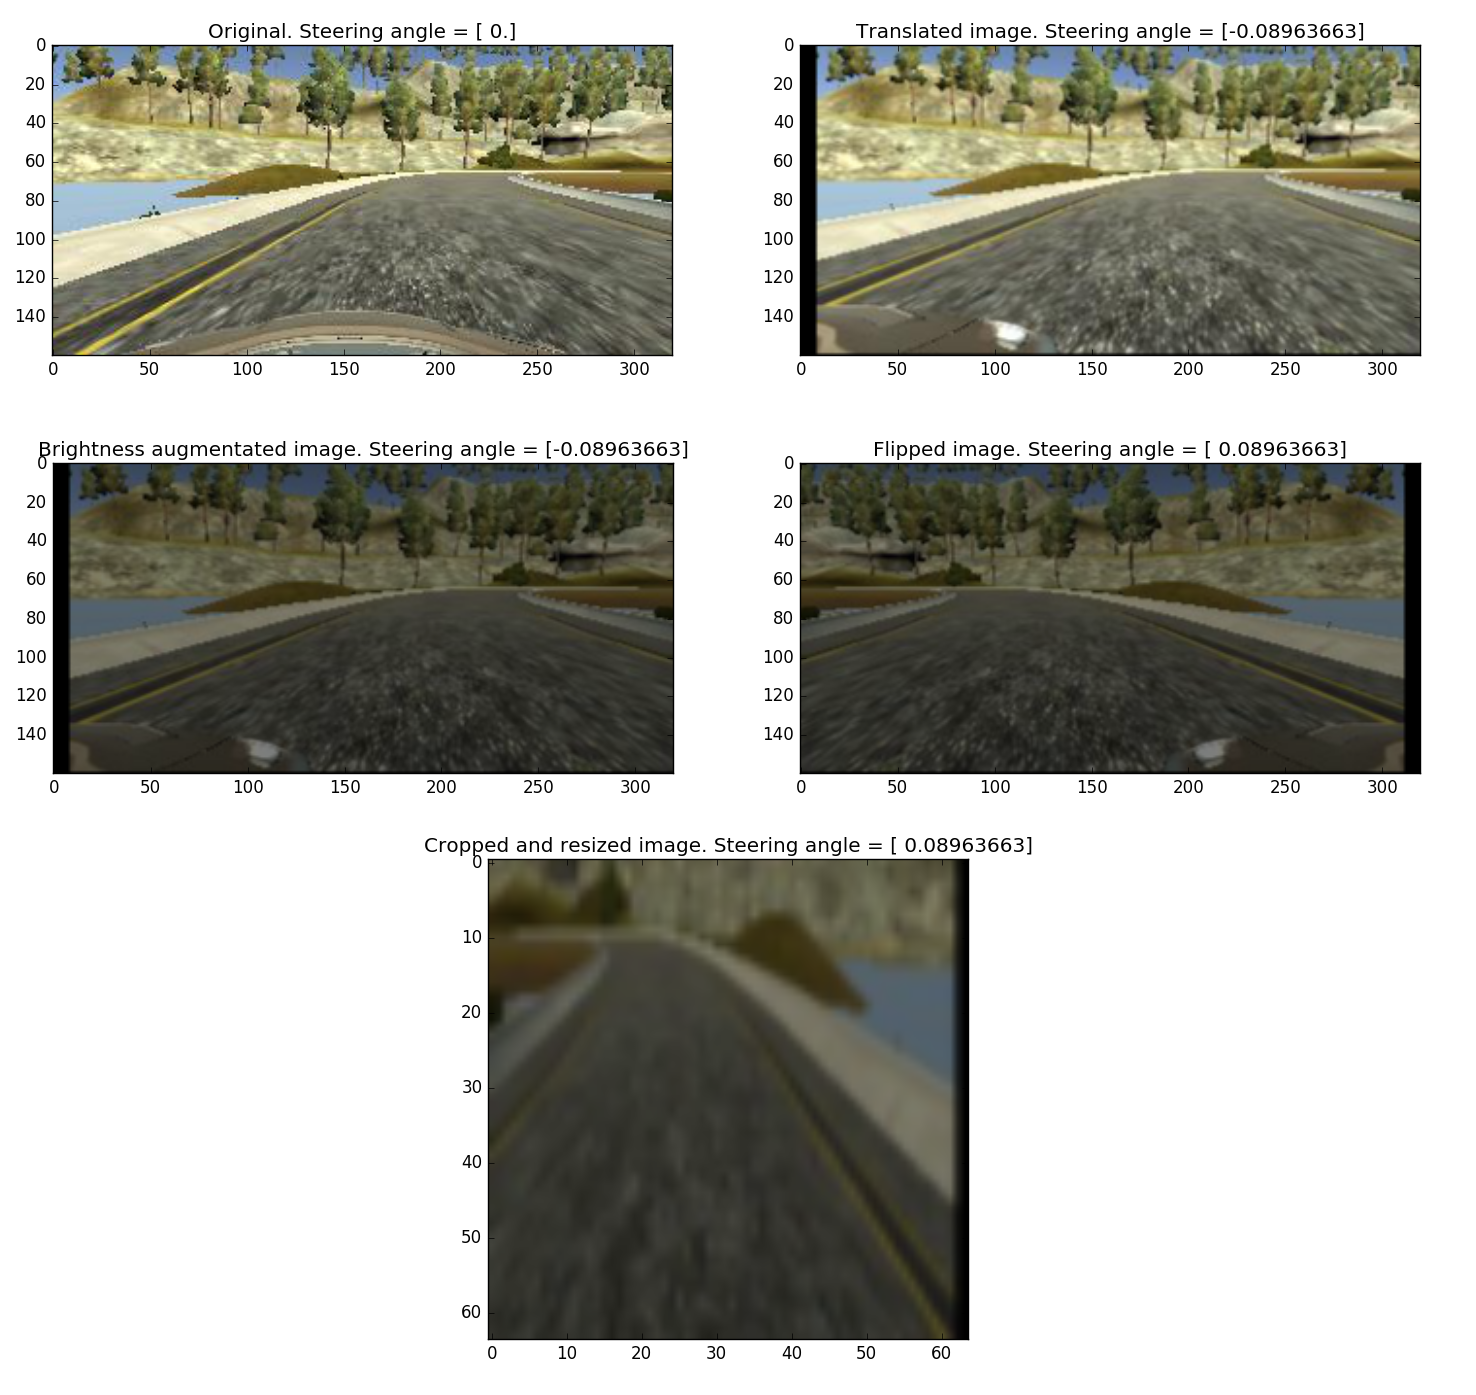
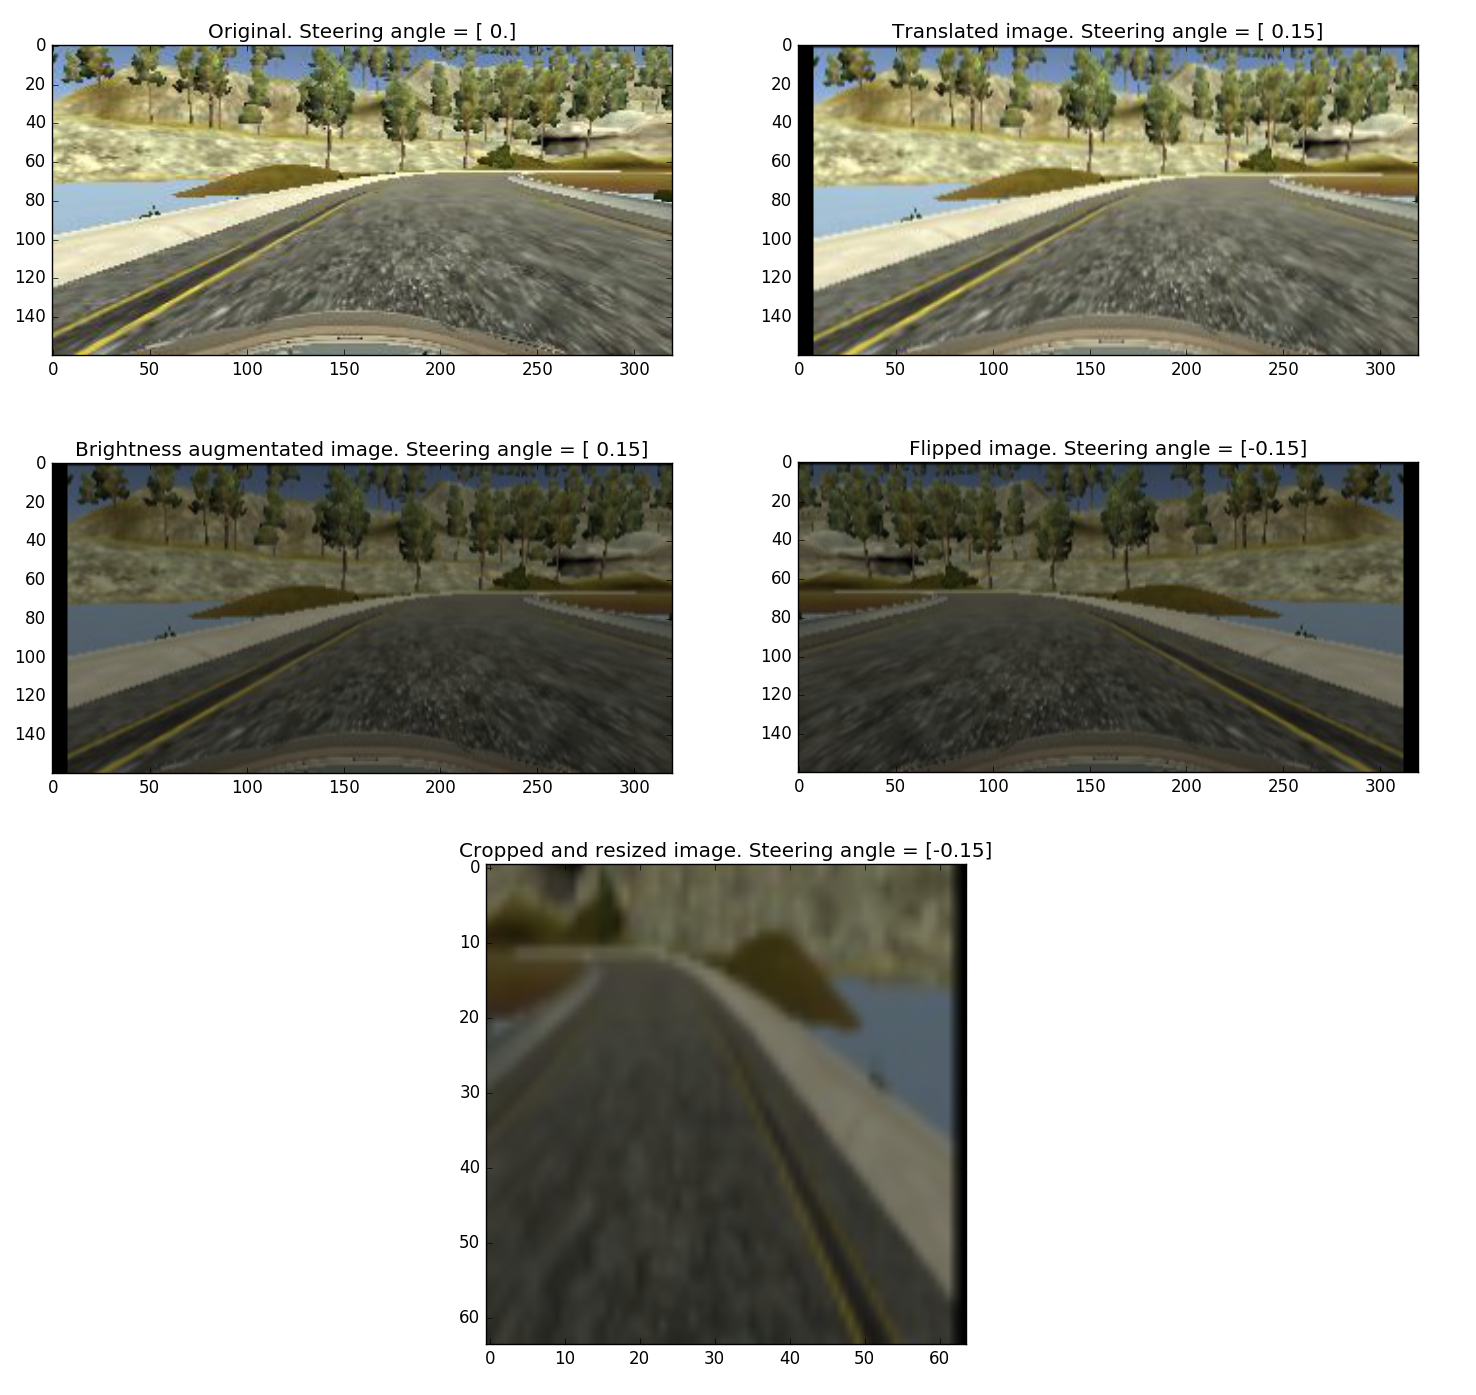
images again

diff --git a/utils.py b/utils.py
@@ -69,10 +69,12 @@ def translate_image(image, angle, x_range, y_range):
     # Translation
     if GAUSSIAN_TRANSLATION == True:
       x_shift = np.random.normal(0, x_range/2)
+      x_shift = x_range/2
     else:
       x_shift = x_range * np.random.uniform() - x_range / 2
     shifted_angle = angle + x_shift / x_range * 2 * translation_shift_angle
     y_shift = y_range * np.random.uniform() - y_range / 2
+    y_shift = y_range/2
 
     modifier = np.float32([[1, 0, x_shift], [0, 1, y_shift]])
     size = (img_shape[1], img_shape[0])
@@ -87,6 +89,7 @@ def translate_image(image, angle, x_range, y_range):
 def flip_image(image, angle):
   flipped_angle = angle
   ind_flip = np.random.randint(2)
+  ind_flip = 0
   if ind_flip==0:
       image = cv2.flip(image,1)
       flipped_angle = -angle
@@ -98,6 +101,7 @@ def flip_image(image, angle):
 def augment_brightness_camera_images(image):
   image1 = cv2.cvtColor(image,cv2.COLOR_RGB2HSV)
   random_bright = .25+np.random.uniform()
+  random_bright = 0.5
   image1[:,:,2] = np.minimum(image1[:,:,2]*random_bright, 255)
   image1 = cv2.cvtColor(image1,cv2.COLOR_HSV2RGB)
   return image1

diff --git a/params.py b/params.py
@@ -50,8 +50,8 @@ translation_shift_angle = 0.15
 GAUSSIAN_TRANSLATION = True
 
 # fix random seed for reproducibility
-# seed = 1
-# np.random.seed(seed)
+seed = 1
+np.random.seed(seed)
 
 # Randomly select the camera (center, left or right)
 # non uniform: "center_camera_prob" chance for center,

diff --git a/README.md b/README.md
@@ -175,7 +175,7 @@ In order to overcome this problem, I came up with the idea of generating these s
 
 Another improvement for data augmentation was to randomly flip half of the training images and invert the corresponding steering angle, equalizing the amount of left and right turns.
 
-To make the model more robust, I also augment/decrease brightness randomly to simulate day and night conditions. This was fundamental in order to autonomously drive in the other track provided in the simulator. The original code for this tweak was taken from internet, but it had problems. When the brightness was reduced it worked well. However, when the brightness was augmented for pixel beyond 255, the result was not certainly what I expected. For example, when the result was 256, it was turned into 256 - 255 = 1. So I added a saturation block in the HSV space (utils.py, line 101), consisting of:
+To make the model more robust, I also augmented/reduced brightness randomly to simulate day and night conditions. This was fundamental in order to autonomously drive in the other track provided in the simulator. The original code for this tweak was taken from internet, but it had problems. When the brightness was reduced it worked well. However, when the brightness was augmented for pixel beyond 255, the result was not certainly what I expected. For example, when the result was 256, it was turned into 256 - 255 = 1. So I added a saturation block in the HSV space (utils.py, line 101), consisting of:
 
     image1[:,:,2] = np.minimum(image1[:,:,2]*random_bright, 255)
 
